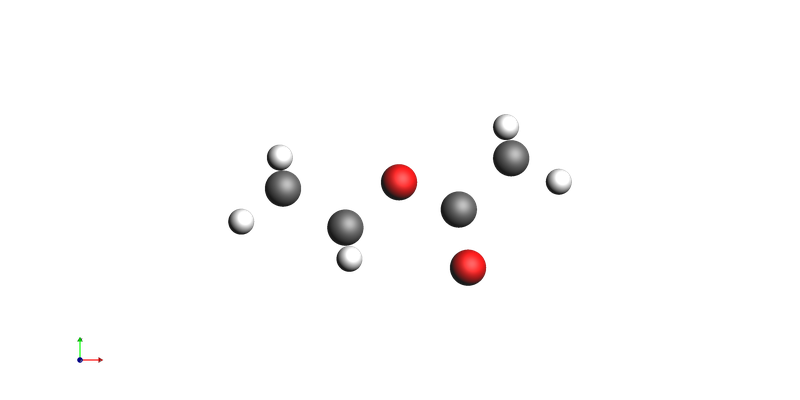
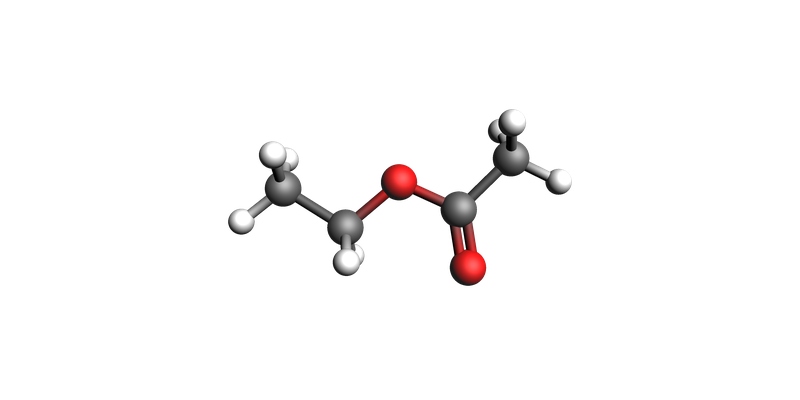
Minor notebook updates SO--

diff --git a/examples/H-NMRSpinSpinCoupling/H-NMRSpinSpinCoupling.py b/examples/H-NMRSpinSpinCoupling/H-NMRSpinSpinCoupling.py
@@ -33,8 +33,10 @@ End
 )
 
 
-# cs.guess_bonds()  # make visualization nicer
-view(cs)
+# visualize system with bonds
+cs_with_bonds = cs.copy()
+cs_with_bonds.guess_bonds()
+view(cs_with_bonds)
 
 
 # ## Job settings: DFT and NMR

diff --git a/doc/source/examples/H-NMRSpinSpinCoupling/H-NMRSpinSpinCoupling.ipynb.rst b/doc/source/examples/H-NMRSpinSpinCoupling/H-NMRSpinSpinCoupling.ipynb.rst
@@ -39,8 +39,10 @@ System
 
 .. code:: ipython3
 
-   # cs.guess_bonds()  # make visualization nicer
-   view(cs)
+   # visualize system with bonds
+   cs_with_bonds = cs.copy()
+   cs_with_bonds.guess_bonds()
+   view(cs_with_bonds)
 
 .. figure:: H-NMRSpinSpinCoupling_files/H-NMRSpinSpinCoupling_4_0.png
 
@@ -189,16 +191,10 @@ Inspect the job
 
 ::
 
-   [12.12|10:25:04] JOB ethyl_acetate_nmr STARTED
-   [12.12|10:25:04] JOB ethyl_acetate_nmr RUNNING
-   [12.12|10:42:59] JOB ethyl_acetate_nmr FINISHED
-   [12.12|10:42:59] JOB ethyl_acetate_nmr SUCCESSFUL
-
-
-
-
-
-   <scm.plams.interfaces.adfsuite.ams.AMSResults at 0x78250e70f940>
+   [16.12|15:44:51] JOB ethyl_acetate_nmr STARTED
+   [16.12|15:44:51] JOB ethyl_acetate_nmr RUNNING
+   [16.12|15:51:33] JOB ethyl_acetate_nmr FINISHED
+   [16.12|15:51:33] JOB ethyl_acetate_nmr SUCCESSFUL
 
 Results (basic)
 ~~~~~~~~~~~~~~~
@@ -214,7 +210,7 @@ Let’s see which NMR results are available on adf.rkf:
 
 ::
 
-   ['NMR Coupling K tens InputOrder', 'NMR Coupling K const InputOrder', 'NMR Shieldings InputOrder', 'NMR Shielding Tensor InputOrder', 'NMR Coupling J tens InputOrder', 'NMR Coupling J const InputOrder']
+   ['NMR Coupling J tens InputOrder', 'NMR Coupling K tens InputOrder', 'NMR Coupling K const InputOrder', 'NMR Coupling J const InputOrder', 'NMR Shielding Tensor InputOrder', 'NMR Shieldings InputOrder']
 
 .. code:: ipython3
 
